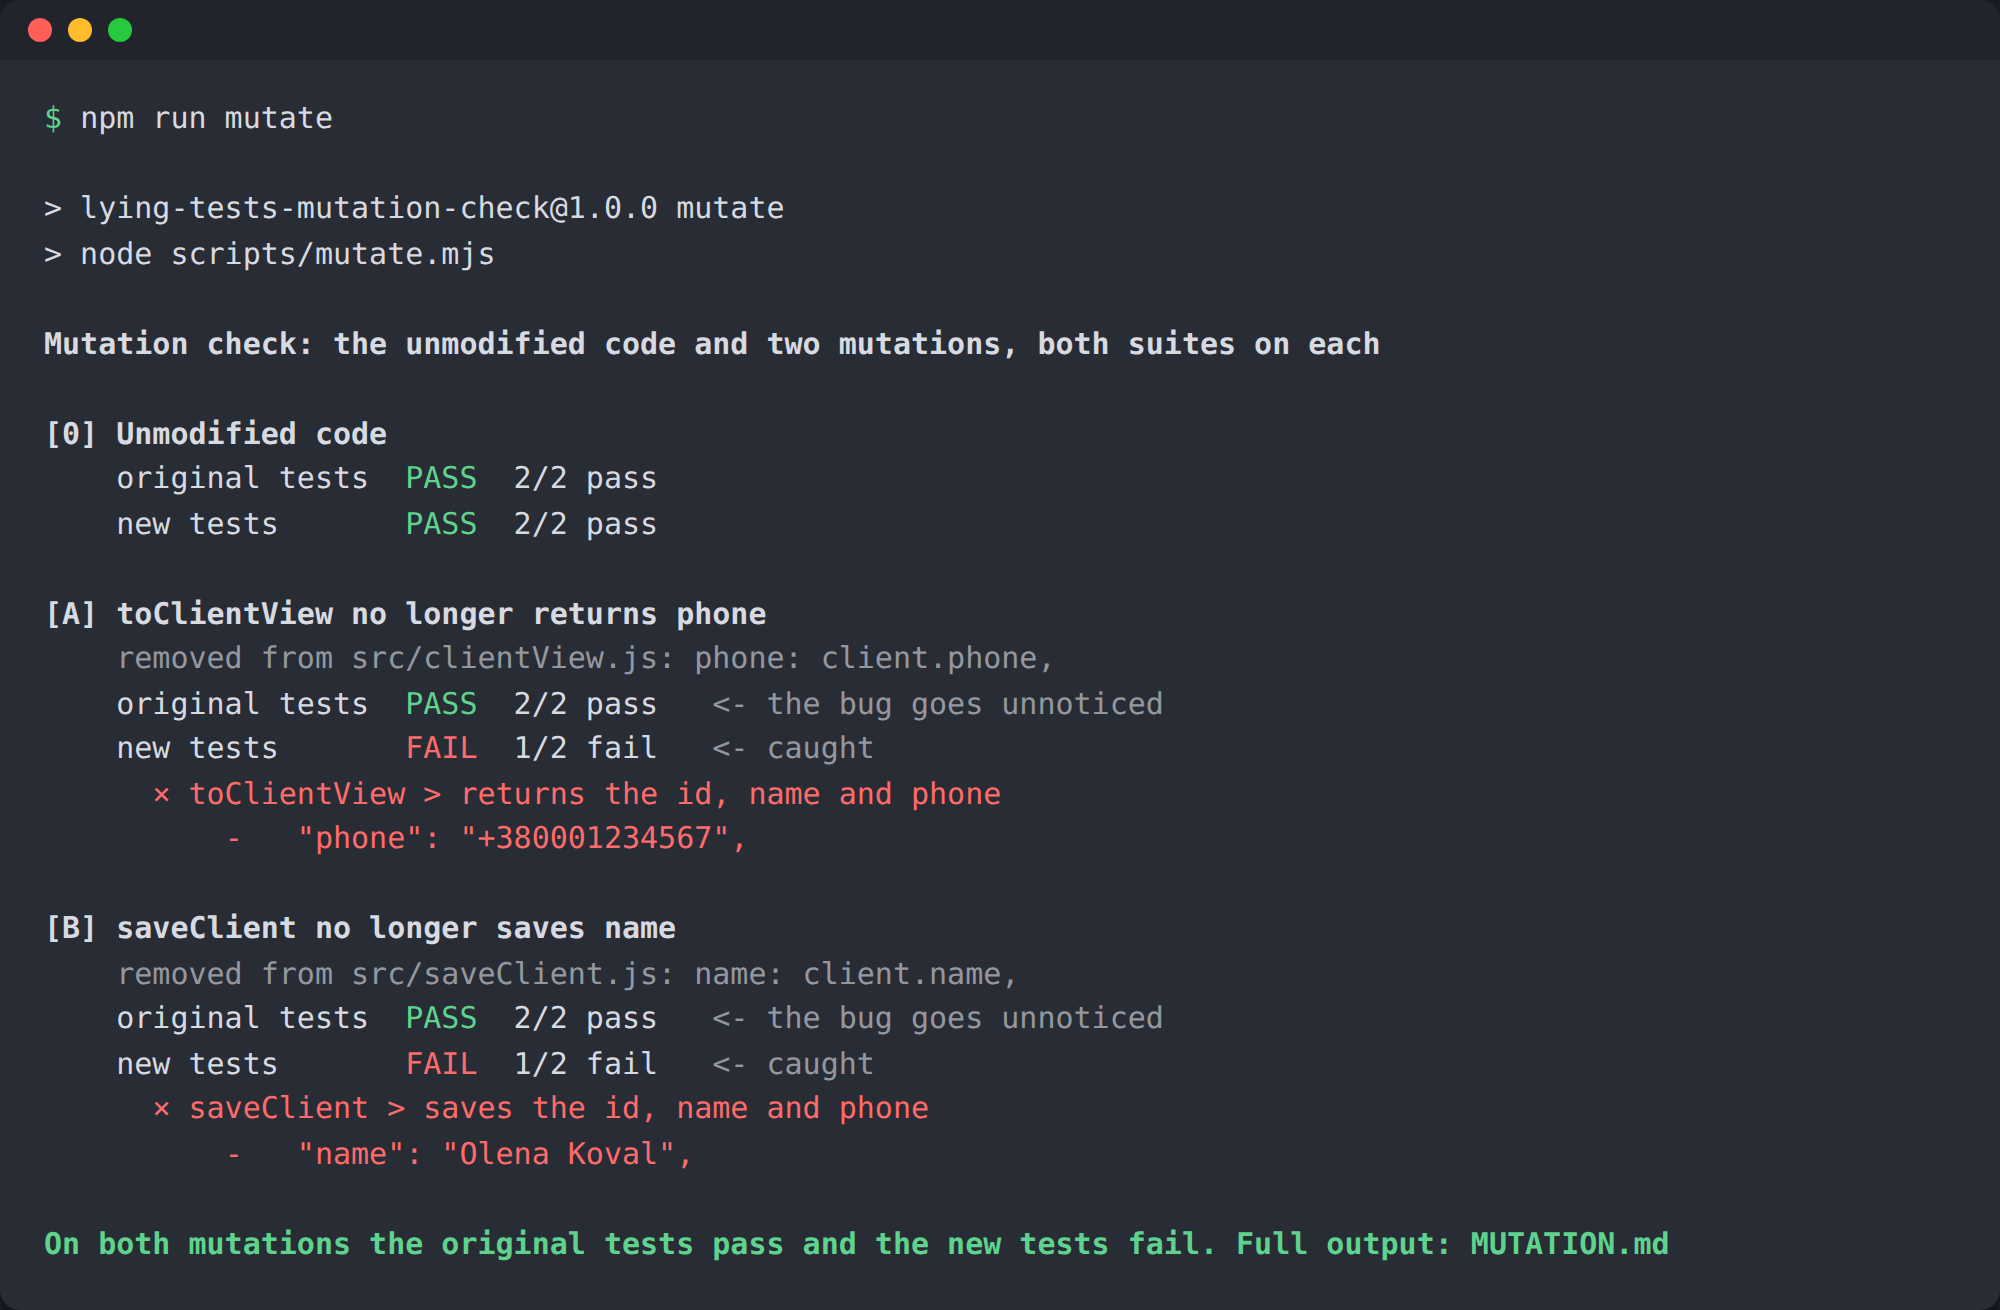
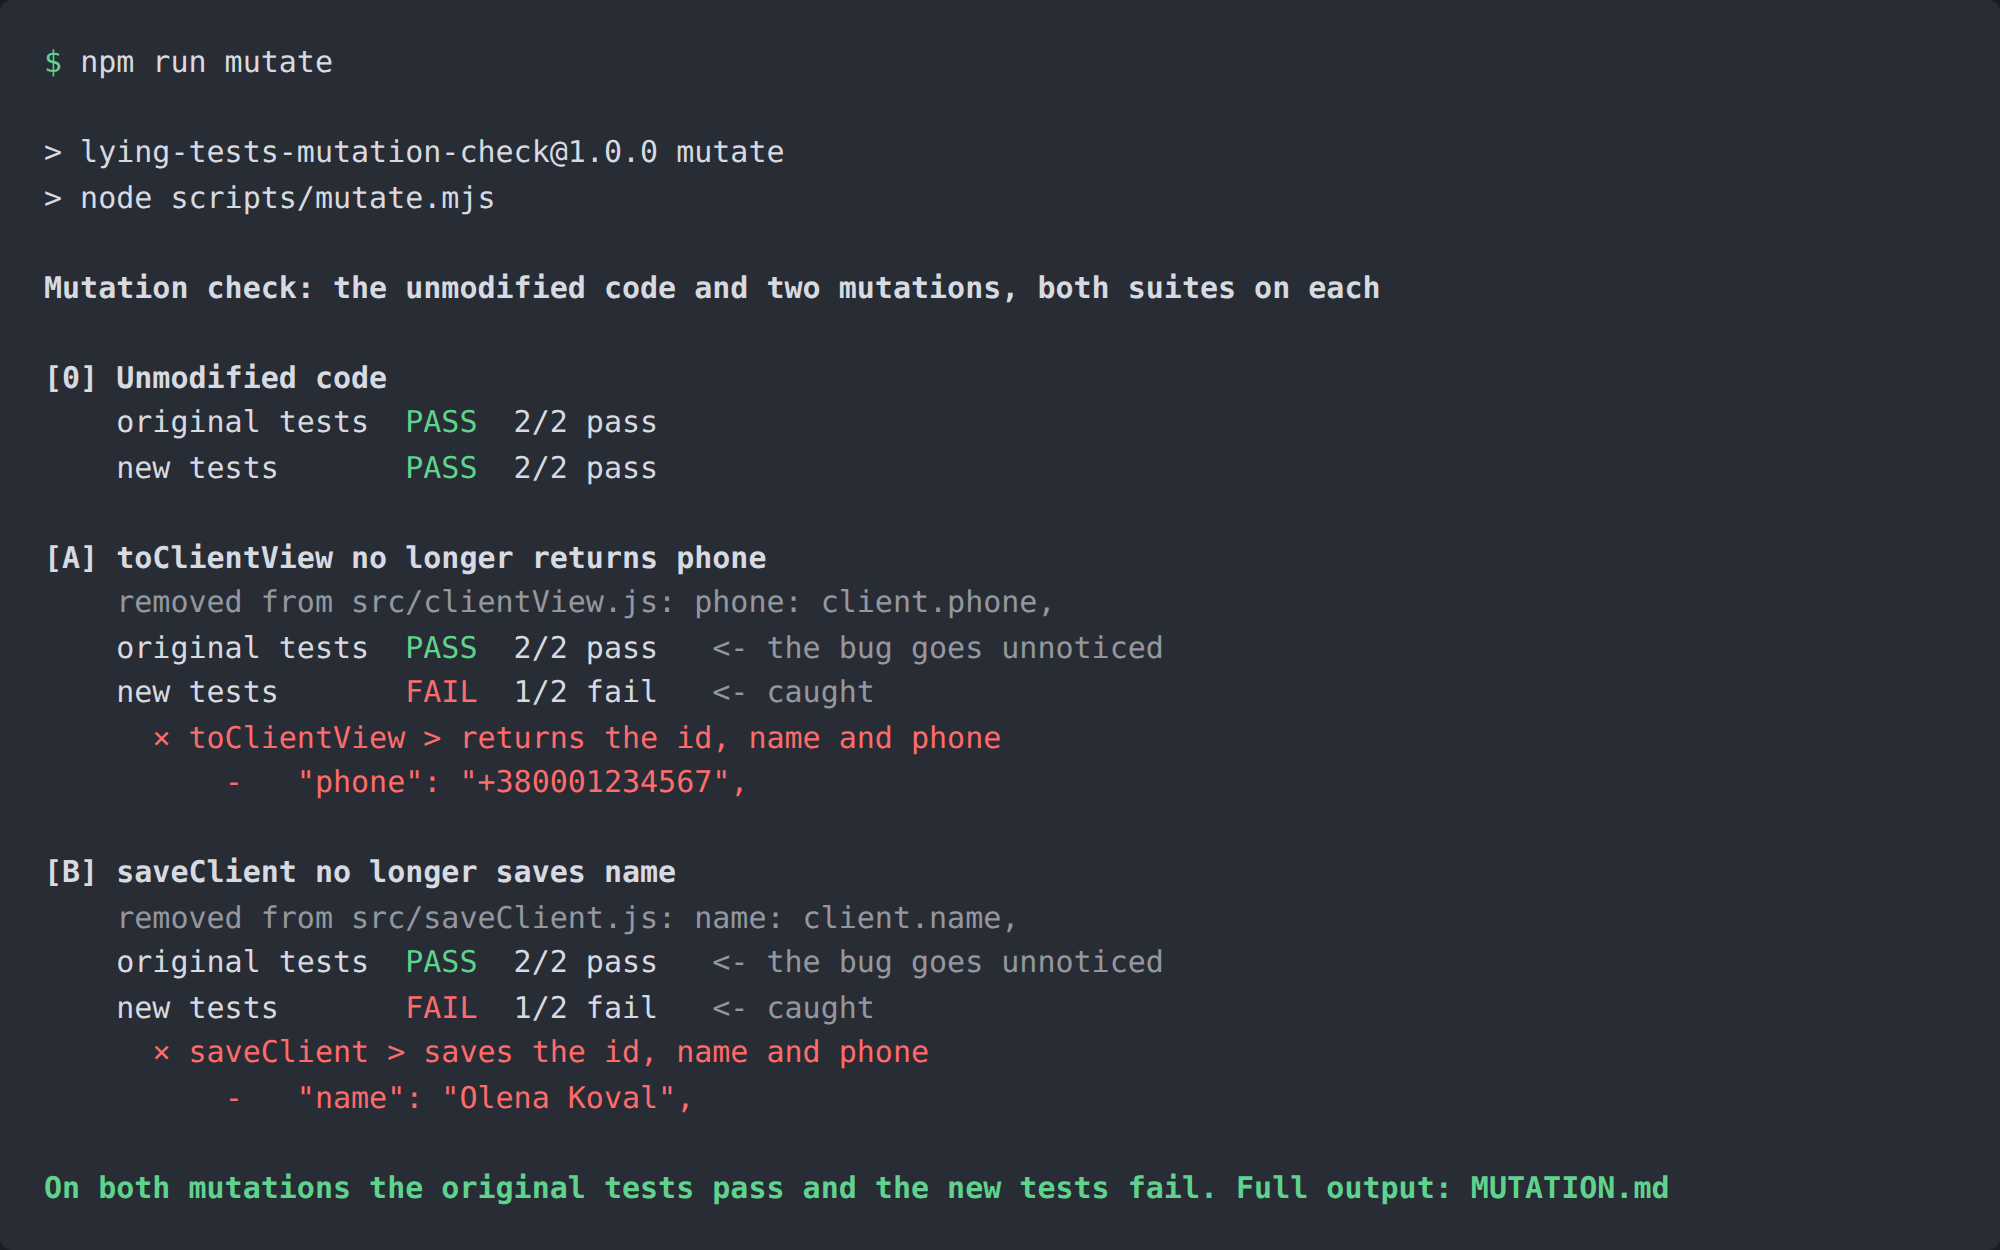
Clarify README and mutate.mjs, re-record the mutation run

diff --git a/test/old.test.js b/test/old.test.js
@@ -1,4 +1,4 @@
-// The original tests, unchanged. Both still pass after the two bugs described in the README.
+// The original tests, unchanged. Both still pass on code with the two bugs described in the README.
 import { it, expect, vi } from 'vitest';
 import { toClientView } from '../src/clientView.js';
 import { saveClient } from '../src/saveClient.js';

diff --git a/MUTATION.md b/MUTATION.md
@@ -13,29 +13,28 @@ Each run copies `package.json`, `src/` and `test/` to a temporary directory, and
 ### Original tests (`test/old.test.js`)
 
 ```text
-RUN  v5.1.1 /tmp/mutation-0-jtKADj
+RUN  v5.1.1 /tmp/mutation-0-KAQMKO
 
- ✓ test/old.test.js (2 tests) 9ms
+ ✓ test/old.test.js (2 tests) 8ms
 
  Test Files  1 passed (1)
       Tests  2 passed (2)
-   Start at  17:13:38
-   Duration  433ms (transform 68%, import 23%, tests 4%, worker 4%)
+   Start at  17:24:58
+   Duration  404ms (transform 62%, import 27%, tests 6%, worker 5%)
 ```
 
 ### New tests (`test/new.test.js`)
 
 ```text
-RUN  v5.1.1 /tmp/mutation-0-jtKADj
+RUN  v5.1.1 /tmp/mutation-0-KAQMKO
 
- ✓ test/new.test.js (2 tests) 8ms
+ ✓ test/new.test.js (2 tests) 18ms
 
  Test Files  1 passed (1)
       Tests  2 passed (2)
-   Start at  17:13:39
-   Duration  355ms (transform 63%, import 28%, tests 5%, worker 4%)
+   Start at  17:24:59
+   Duration  350ms (transform 58%, import 22%, tests 13%, worker 7%)
 ```
-
 
 ## A. toClientView no longer returns phone
 
@@ -48,31 +47,31 @@ Mutation in `src/clientView.js`:
 ### Original tests (`test/old.test.js`)
 
 ```text
-RUN  v5.1.1 /tmp/mutation-A-aTUbab
+RUN  v5.1.1 /tmp/mutation-A-ZHhJ5e
 
- ✓ test/old.test.js (2 tests) 8ms
+ ✓ test/old.test.js (2 tests) 19ms
 
  Test Files  1 passed (1)
       Tests  2 passed (2)
-   Start at  17:13:40
-   Duration  423ms (transform 69%, import 21%, worker 6%, tests 4%)
+   Start at  17:25:00
+   Duration  711ms (transform 71%, import 15%, worker 7%, tests 7%)
 ```
 
 ### New tests (`test/new.test.js`)
 
 ```text
-RUN  v5.1.1 /tmp/mutation-A-aTUbab
+RUN  v5.1.1 /tmp/mutation-A-ZHhJ5e
 
- ❯ test/new.test.js (2 tests | 1 failed) 22ms
+ ❯ test/new.test.js (2 tests | 1 failed) 33ms
    ❯ toClientView (1)
-     × returns the id, name and phone 18ms
+     × returns the id, name and phone 22ms
    ✓ saveClient (1)
-     ✓ saves the id, name and phone 1ms
+     ✓ saves the id, name and phone 3ms
 
  Test Files  1 failed (1)
       Tests  1 failed | 1 passed (2)
-   Start at  17:13:41
-   Duration  436ms (transform 64%, import 20%, tests 12%, worker 4%)
+   Start at  17:25:02
+   Duration  570ms (transform 51%, import 25%, tests 20%, worker 5%)
 
 
 ⎯⎯⎯⎯⎯⎯⎯ Failed Tests 1 ⎯⎯⎯⎯⎯⎯⎯
@@ -100,7 +99,6 @@ AssertionError: expected { id: 'c-42', name: 'Olena Koval' } to strictly equal {
 ⎯⎯⎯⎯⎯⎯⎯⎯⎯⎯⎯⎯⎯⎯⎯⎯⎯⎯⎯⎯⎯⎯⎯⎯[1/1]⎯
 ```
 
-
 ## B. saveClient no longer saves name
 
 Mutation in `src/saveClient.js`:
@@ -112,31 +110,31 @@ Mutation in `src/saveClient.js`:
 ### Original tests (`test/old.test.js`)
 
 ```text
-RUN  v5.1.1 /tmp/mutation-B-yg4V0w
+RUN  v5.1.1 /tmp/mutation-B-BRAer5
 
- ✓ test/old.test.js (2 tests) 7ms
+ ✓ test/old.test.js (2 tests) 12ms
 
  Test Files  1 passed (1)
       Tests  2 passed (2)
-   Start at  17:13:42
-   Duration  399ms (transform 73%, import 20%, worker 4%, tests 4%)
+   Start at  17:25:04
+   Duration  456ms (transform 69%, import 23%, tests 5%, worker 3%)
 ```
 
 ### New tests (`test/new.test.js`)
 
 ```text
-RUN  v5.1.1 /tmp/mutation-B-yg4V0w
+RUN  v5.1.1 /tmp/mutation-B-BRAer5
 
- ❯ test/new.test.js (2 tests | 1 failed) 21ms
+ ❯ test/new.test.js (2 tests | 1 failed) 31ms
    ✓ toClientView (1)
-     ✓ returns the id, name and phone 4ms
+     ✓ returns the id, name and phone 6ms
    ❯ saveClient (1)
-     × saves the id, name and phone 13ms
+     × saves the id, name and phone 19ms
 
  Test Files  1 failed (1)
       Tests  1 failed | 1 passed (2)
-   Start at  17:13:43
-   Duration  392ms (transform 58%, import 26%, tests 11%, worker 5%)
+   Start at  17:25:05
+   Duration  558ms (transform 64%, import 18%, tests 14%, worker 4%)
 
 
 ⎯⎯⎯⎯⎯⎯⎯ Failed Tests 1 ⎯⎯⎯⎯⎯⎯⎯

diff --git a/README.md b/README.md
@@ -26,23 +26,25 @@ it('saves client', async () => { await saveClient(c); expect(db.save).toHaveBeen
 `test/new.test.js`:
 
 - The fixture has a distinct value for every field, phone included (a made-up number).
-- Each expected object is written out in full and compared with `toStrictEqual`, which also fails when a property is present but `undefined`.
+- Each expected object is written out in full and compared with `toStrictEqual`, which, unlike `toEqual`, tells a missing property from one set to `undefined`.
 - `saveClient` takes the store as an optional second argument. The test passes an in-memory database (`src/db.js`), reads the record back and compares all of its fields.
 
 ## Mutation check
 
-`npm run mutate` makes each break in a fresh copy of `src/` and `test/` in the system temp directory and runs both suites against it:
+`npm run mutate` introduces each bug in a fresh copy of `src/` and `test/` in the system temp directory and runs both suites against it:
 
 | Mutation | Original tests | New tests |
 |---|---|---|
 | A: `toClientView` without `phone` | 2/2 pass | 1/2 fail |
 | B: `saveClient` without `name` | 2/2 pass | 1/2 fail |
 
-[MUTATION.md](MUTATION.md) holds the full vitest output of every run; the script rewrites it each time. [docs/mutation-check.png](docs/mutation-check.png) is the console output of the same run, rendered as an image. The script exits with code 1 if a mutation doesn't apply, if either suite fails on the unmodified code, or if a mutation leaves the new tests green or turns the original ones red.
+![Console output of npm run mutate](docs/mutation-check.png)
+
+[MUTATION.md](MUTATION.md) holds the full vitest output of the same run. The script rewrites it on every run and leaves its copies in the temp directory. It exits with code 1 if a mutation doesn't apply, if either suite fails on the unmodified code, or if a mutation leaves the new tests green or turns the original ones red.
 
 ## Running
 
-Needs Node.js 22.12+, 24 or 26+ (the versions vitest 5 supports).
+Needs Node.js 22 (22.12 or later), 24, or 26 and up (the versions vitest 5 supports).
 
 ```sh
 npm ci
